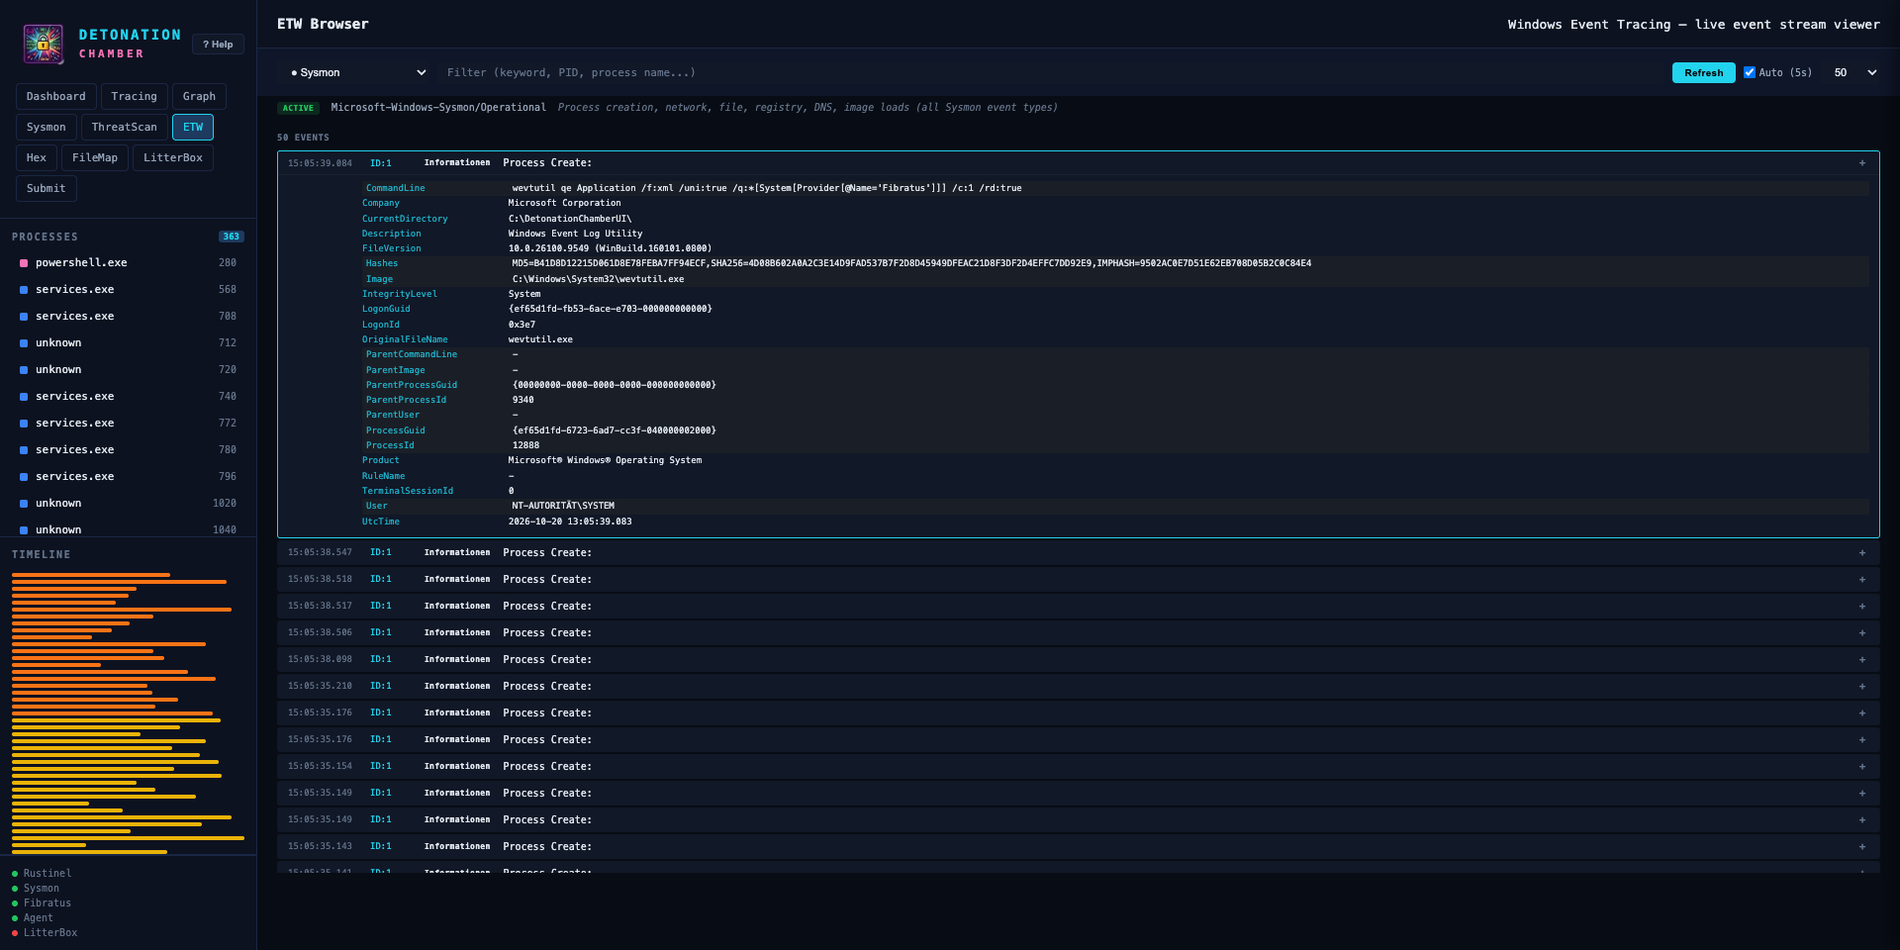
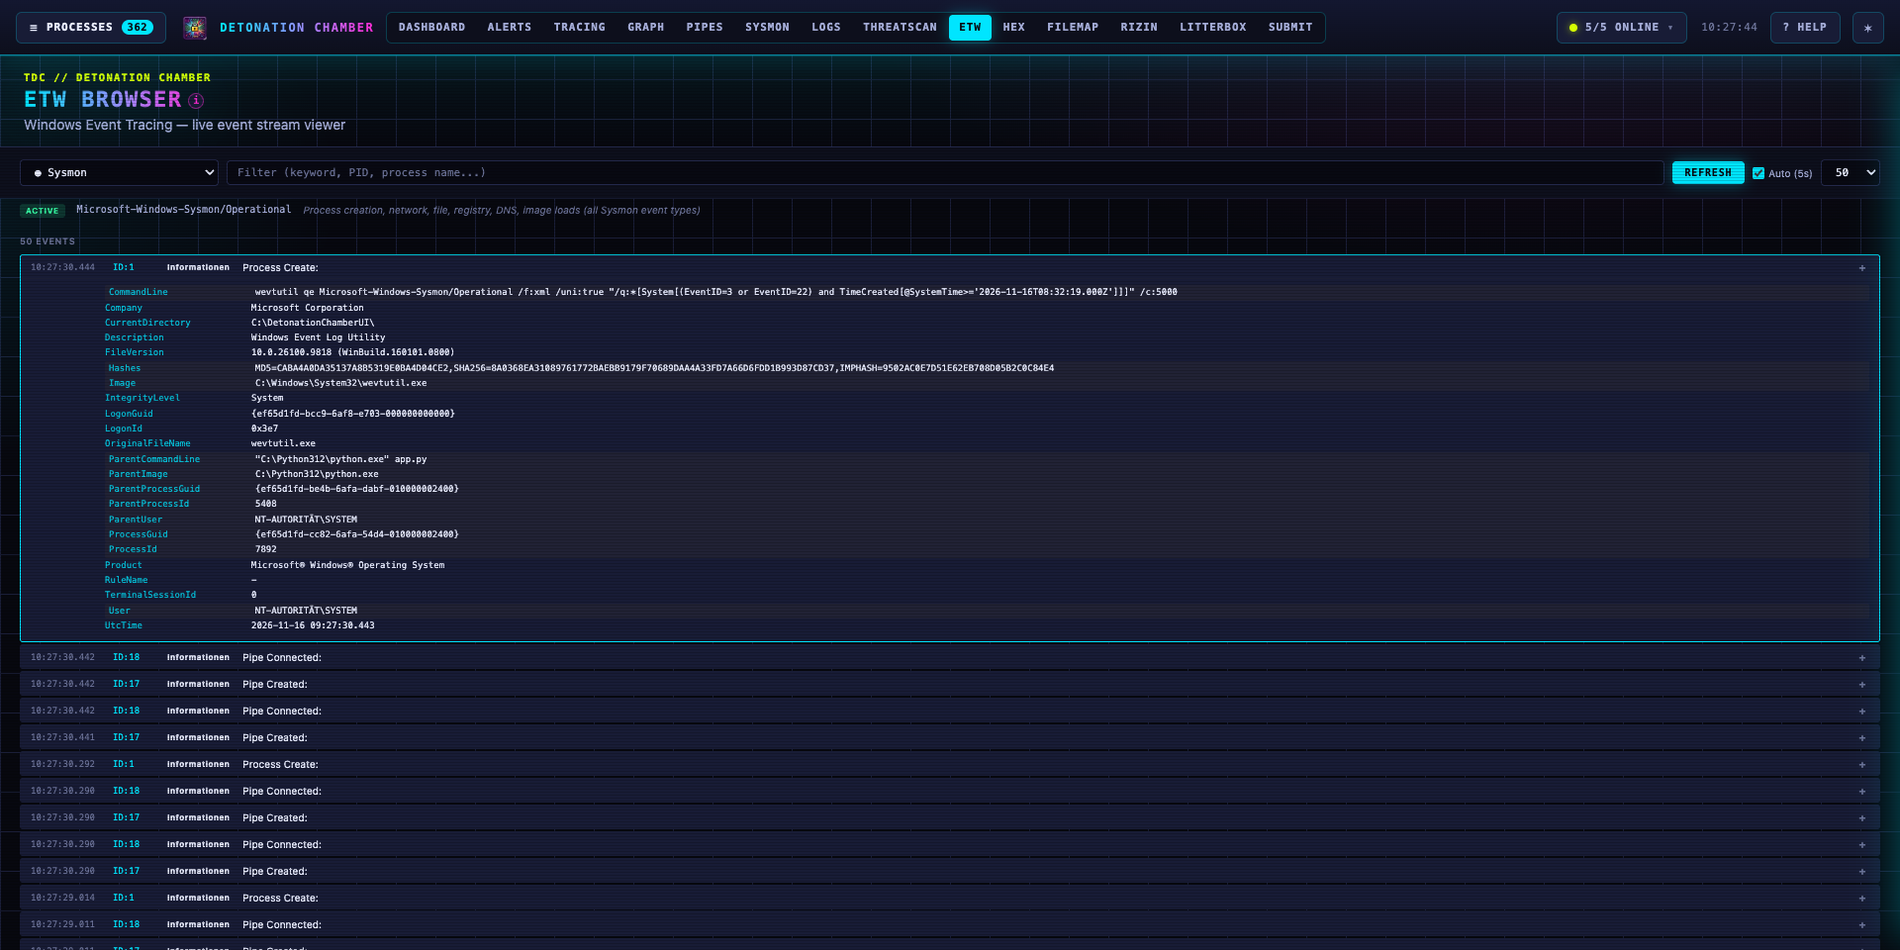
docs: telemetry screenshots and demo gif

Changed region(s): [[0.0, 0.0, 1.0, 1.0], [0.2812, 0.4375, 0.375, 0.5]]

diff --git a/README.md b/README.md
@@ -41,6 +41,11 @@
   <br><sub>The same dashboard in the Telemetry theme (cyan, magenta and acid green on near-black blue)</sub>
 </p>
 
+<p align="center">
+  <img src="static/demo.gif" alt="Demo: a walk through the Web UI in the Telemetry theme" width="90%">
+  <br><sub>A walk through the Web UI in the Telemetry theme: Dashboard with Tool Updates, Alerts (charts and drilldown), Tracing, Graph, Pipes, Sysmon, LOGS, ThreatScan, Hex and File map, Rizin, ETW, and a switch to Cyberpunk and back (see <a href="#demo">Demo</a> for the screenshots)</sub>
+</p>
+
 ---
 
 ## Table of Contents
@@ -149,8 +154,8 @@ that was running at the time.
 The Web UI has two themes: **Cyberpunk** (the default: neon on deep violet)
 and **Telemetry** (cyan, magenta and acid green on near-black blue, with a
 fine grid and scanlines; it replaces the former blue Classic look, and a
-browser that stored "classic" simply gets Telemetry). Most of the screenshots
-below were taken in that former look, with its sidebar. **✶** switches between
+browser that stored "classic" simply gets Telemetry). The screenshots below
+were taken in Telemetry, except the one that says Cyberpunk. **✶** switches between
 the themes at once, without reloading the page; the open tab, an open detail
 view, filters and drilldown steps, sort orders, the graph and running pipe
 interception sessions stay as they are. The choice is stored in the browser
@@ -1059,6 +1064,18 @@ tool on the VM with its installed and available version and a status, and
 installs updates without re-provisioning the VM. The VM needs internet access
 for this; without it the rows say "No internet access from the VM" (`offline`).
 
+<p align="center">
+  <img src="static/tool_updates.png" alt="Dashboard: the Tool Updates panel with CHECK FOR UPDATES and the skull UPDATE ALL button" width="100%">
+</p>
+
+> The panel in the Telemetry theme, scrolled to the top of the window:
+> the time of the last check, **CHECK FOR UPDATES** and the skull button
+> **UPDATE ALL** with the number of tools it would install (2: Sysmon and its
+> config, the only rows with *update available*). Rustinel and Fibratus are
+> pinned (1.1.1 and 3.0.0), so a newer version (1.11.0, 3.1.1) is shown but
+> only their own **UPDATE** button installs it; most git and release tools
+> are *up to date*, and a few have no version to compare (*unknown*).
+
 - **Check for updates** runs in the background. The server also checks once a
   day on its own (first check 5 minutes after start; `TDC_UPDATE_CHECK_HOURS`),
   but it never installs anything by itself.
@@ -1148,6 +1165,18 @@ Splunk's search language. Everything in it is text from the sample or the VM
 (a PowerShell script block above all), so it is always shown as text, never as
 markup.
 
+<p align="center">
+  <img src="static/logs_tab.png" alt="LOGS tab: the search source=dns | top 10 query over 7 days" width="100%">
+</p>
+
+> The search `source=dns | top 10 query` over the last 7 days: the 252 DNS
+> events of the VM, counted by queried name (`github.com` 70, then
+> `dc.services.visualstudio.com` 38, `api.nuget.org` 24, ...) as a table with
+> its share, over the **EVENTS OVER TIME** histogram of the range. The chips
+> under the search box count the six sources (the DNS one is the active
+> source), the range buttons sit left of them, and the field list left of the
+> table shows the six fields of the result.
+
 | Source | Content |
 |--------|---------|
 | `powershell` | Script Blocks (4104), module and pipeline logging (4103) and engine errors (4100) of `Microsoft-Windows-PowerShell/Operational`; the parts of a long script block are joined into one event; the script is the `message` (`script=` searches it too) |
@@ -1211,27 +1240,26 @@ Screenshots from the ARM64 UTM VM with the test samples used during development
 (`shortlived.exe`, `injectsim.exe`, `beaconsim.exe`, `pipesim.exe` — harmless
 programs that mimic implant behaviour).
 
-### Service Dashboard (former Classic look)
+### Service Dashboard (Telemetry theme)
 
 <p align="center">
-  <img src="static/dashboard.png" alt="Dashboard in the former Classic theme, with the sidebar" width="100%">
+  <img src="static/dashboard.png" alt="Dashboard in the Telemetry theme" width="100%">
 </p>
 
 > Stats strip (alerts by severity, tracked processes, services online, loaded
 > Sigma/YARA rules, scanner tools), where each tile opens what it counts;
 > TOTAL ALERTS and PROCESSES TRACKED carry 45-day sparklines. Below it
-> **ALERT ACTIVITY** on ALL: the 9,620 alerts per day from 14 Jul to 10 Nov,
-> stacked by severity, beside the **SEVERITY** and **CATEGORY** donuts of
-> that range (196 critical, 2,700 high, 6,720 medium, 4 low; registry,
-> process, api, file, module). Then one card per service: Rustinel,
-> DetonatorAgent and LitterBox, below them Sysmon, Fibratus and the AV/AMSI
-> scanner (EMBER2024 and capa follow further down). Offline services are
-> struck through and can be launched from their card (here LitterBox). This
-> screenshot predates the top bar: the left sidebar held the tabs (Alerts,
-> the second, lists every alert), ✶ below "? Help", the tracked
-> processes and the alert timeline: the 60 newest alerts coloured by
-> severity, which TABLE lists as a table. They now sit in the drawer behind
-> ☰ PROCESSES, and the colours are those of the Telemetry theme above.
+> **ALERT ACTIVITY** on ALL: the 9,950 alerts per week from 13 Jul to 16 Nov
+> (5 without a time), stacked by severity, beside the **SEVERITY** and
+> **CATEGORY** donuts of that range (238 critical, 2,983 high, 6,720 medium,
+> 9 low; registry, process, api, file, module). Then one card per service:
+> Rustinel, DetonatorAgent and LitterBox, below them Sysmon, Fibratus and the
+> AV/AMSI scanner (EMBER2024 and capa follow further down). An offline service
+> is struck through and can be launched from its card; all of them are online
+> here. The top bar holds ☰ PROCESSES (362 tracked processes; the process list
+> and the alert timeline, the 60 newest alerts coloured by severity, which
+> TABLE lists as a table, sit in the drawer behind it), the tabs, the service
+> summary, Help and ✶, which switches to Cyberpunk.
 
 ---
 
@@ -1243,14 +1271,14 @@ programs that mimic implant behaviour).
 
 > The same dashboard in the **Cyberpunk** theme, which a browser without a
 > stored choice starts in. The top bar holds ☰ PROCESSES
-> (363 tracked processes, opens the process list and the timeline in a
-> drawer), the logo, the tabs with the active one in magenta, the service
-> summary, the time of the last update, Help and ✶, which switches to
-> Telemetry. The summary *4/5 ONLINE* counts the five services of the status row
-> (LitterBox is offline; a click lists them); the SERVICES ONLINE tile shows
-> *4/6* because it also counts the Detonator, which is offline as well. Below
+> (362 tracked processes, opens the process list and the timeline in a
+> drawer), the logo, the tabs (Dashboard to Submit, LOGS among them) with the
+> active one in magenta, the service summary, the time of the last update,
+> Help and ✶, which switches to Telemetry. The summary *5/5 ONLINE* counts the
+> five services of the status row (a click lists them); the SERVICES ONLINE
+> tile shows *6/6* because it also counts the Detonator. Below
 > the head area the stats tiles carry a coloured edge; a click on a tile opens
-> what it counts, a click on *2896 high* the critical and high alerts. The
+> what it counts, a click on *3221 high* the critical and high alerts. The
 > charts follow in the theme's colours: ALERT ACTIVITY on ALL (its switch
 > 24H / 7D / 30D / ALL at the top right), the SEVERITY and CATEGORY donuts,
 > then the service cards.
@@ -1263,18 +1291,19 @@ programs that mimic implant behaviour).
   <img src="static/alerts_tab.png" alt="Alerts tab filtered by severity and engine" width="100%">
 </p>
 
-> The **Alerts** tab (former Classic look) filtered to the critical and high alerts of
-> the fibratus engine: *6 of 9641*. The charts above the filter bar count
-> the same six: SEVERITY 1 critical and 5 high, OVER TIME one alert on each
-> of six days between 28 Oct and 10 Nov (under the bars the hint how to use
-> them), ENGINE fibratus alone, and FLOW from fibratus through six rules to
-> six processes (a click on a part would narrow the list further). The
-> severity chips and the engine are set in the filter bar itself, which is
-> no drilldown step, so no drilldown bar shows. Below the bar the six rows,
-> newest first, each with its time, severity, engine, rule, process and
-> PID, and the rule's description. A click on a row opens the alert detail;
-> process names that are in the process list (here `services.exe`) are
-> links to the process. Column heads sort the table.
+> The **Alerts** tab (Telemetry) filtered to the critical and high alerts of
+> the fibratus engine: *9 of 9950*. The charts above the filter bar count
+> the same nine: SEVERITY 1 critical and 8 high, OVER TIME bars between
+> 28 Oct and 16 Nov (under the bars the hint how to use them), ENGINE
+> fibratus alone, and FLOW from fibratus through seven rules (six named, the
+> rest as *other rules*) to the processes they ran in (a click on a part would
+> narrow the list further). The severity chips and the engine are set in the
+> filter bar itself, which is no drilldown step, so no drilldown bar shows.
+> Below the bar the rows, newest first, each with its time, severity, engine,
+> rule, process and PID, and the rule's description. A click on a row opens
+> the alert detail; process names that are in the process list (here
+> `XtaCache.exe` and `powershell.exe`) are links to the process. Column heads
+> sort the table.
 
 ---
 
@@ -1284,13 +1313,13 @@ programs that mimic implant behaviour).
   <img src="static/dashboard_charts.png" alt="Dashboard charts with a range drawn across ALERT ACTIVITY" width="100%">
 </p>
 
-> The dashboard (Cyberpunk) with a range drawn across **ALERT ACTIVITY**:
-> the bars of ALL show the 9,620 alerts per day from 14 Jul to 10 Nov,
-> stacked by severity; the range 23 Jul – 21 Aug is marked on them and
+> The dashboard (Telemetry) with a range drawn across **ALERT ACTIVITY**:
+> the bars of ALL show the 9,950 alerts per week from 13 Jul to 16 Nov,
+> stacked by severity; the range 20 Jul – 16 Aug is marked on them and
 > stands as a chip before 24H / 7D / 30D / ALL, whose × goes back to ALL.
-> **SEVERITY** and **CATEGORY** count that range only: 5,833 alerts (7
-> critical, 1,761 high, 4,065 medium), in three categories (registry,
-> process, api). The TOTAL ALERTS and PROCESSES TRACKED tiles carry their
+> **SEVERITY** and **CATEGORY** count that range only: 6,215 alerts (7
+> critical, 1,767 high, 4,441 medium), in three categories (registry 4,441,
+> process 1,648, api 126). The TOTAL ALERTS and PROCESSES TRACKED tiles carry their
 > 45-day sparklines. A click on a bar or a segment opens the Alerts tab
 > filtered to it.
 
@@ -1298,34 +1327,34 @@ programs that mimic implant behaviour).
   <img src="static/alerts_charts.png" alt="Alerts tab with its chart strip and the engine, rule and process Sankey" width="100%">
 </p>
 
-> The **Alerts** tab with all 9,641 alerts: **SEVERITY** and **ENGINE** as
-> pies beside their legends (Sigma 9,415, Yara 216, fibratus 10), **OVER
-> TIME** per week stacked by severity (the week of 27 Jul has 3,372 alerts)
+> The **Alerts** tab with all 9,950 alerts: **SEVERITY** and **ENGINE** as
+> pies beside their legends (Sigma 9,694, Yara 237, fibratus 14, litterbox 5),
+> **OVER TIME** per week stacked by severity (the week of 27 Jul has 3,372 alerts)
 > with the hint how to draw a range below it, and **FLOW: ENGINE → RULE →
 > PROCESS** drawn by square roots. It shows the noise at a glance: the
-> Run-key rule alone has 6,150 of the alerts, 5,757 of them on `MsMpEng.exe`
-> (6,190 alerts in all). The six most frequent rules and processes stand on
-> their own, the rest as *other rules* (79) and *other processes* (504). A
+> Run-key rule alone has 6,150 of the alerts, and `MsMpEng.exe` alone has
+> 6,190. The six most frequent rules and processes stand on
+> their own, the rest as *other rules* (95) and *other processes* (534). A
 > click on a slice, a bar, a node or a band, or a range drawn across the
-> bars, narrows the tab by a step; no filter is set here (*9641 of 9641* in
+> bars, narrows the tab by a step; no filter is set here (*9950 of 9950* in
 > the filter bar), so no drilldown bar shows.
 
 <p align="center">
   <img src="static/alerts_drilldown.png" alt="Alerts tab narrowed in three drilldown steps, with BACK and the path above the charts" width="100%">
 </p>
 
-> The **Alerts** tab (Cyberpunk) after three steps: a click on the week
+> The **Alerts** tab (Telemetry) after three steps: a click on the week
 > 27 Jul – 02 Aug in OVER TIME, a click on its day 27 Jul, then a range
 > drawn across the hours 10:00 and 11:00. The drilldown bar above the charts
 > shows **‹ BACK**, the path
 > `ALL ALERTS › 27 Jul – 02 Aug › 27 Jul › 27 Jul 10:00–12:00` (a click on a
-> step goes back to it) and *1,345 of 9,641 alerts*. OVER TIME divides the
+> step goes back to it) and *1,345 of 9,950 alerts*. OVER TIME divides the
 > two hours into 24 bars of 5 minutes; the busiest, 10:30–10:35, has 373
 > alerts. SEVERITY counts 6 critical, 784 high and 555 medium, ENGINE Sigma
 > 1,339 and Yara 6, and FLOW leads Suspicious Encoded PowerShell Command
 > Line (766) to `powershell.exe` (767 in all) and Registry Run Key
 > Persistence (506) mostly to `MsMpEng.exe` (539 in all). The range stands
-> as a chip under the filter bar (*1345 of 9641*), and the table lists those
+> as a chip under the filter bar (*1345 of 9950*), and the table lists those
 > alerts, newest first.
 
 ---
@@ -1356,7 +1385,7 @@ programs that mimic implant behaviour).
 > each with Map/Hex shortcuts.
 >
 > **Right:** `beaconsim.exe` is **SUSPICIOUS (3.8)**: Sysmon network events show
-> 7 connections to the same endpoint every 2.0 s (robust CoV 0.00), and that
+> 8 connections to the same endpoint every 2.0 s (robust CoV 0.00), and that
 > rhythm corroborates the in-memory signature hits from Aether (3 of 3 samples)
 > and the exit dump.
 
@@ -1474,12 +1503,13 @@ programs that mimic implant behaviour).
   <img src="static/file_map.png" alt="File map" width="100%">
 </p>
 
-> **PE header analysis** of `injectsim.exe`: IOC flags (code-injection APIs,
-> a `.tls` section matching a packer name, two TLS callbacks), file/optional
-> headers with an invalid checksum, security features, and the section table
-> with entropy bars.
+> **PE header analysis** of `injectsim.exe`, scrolled to the lower part of the
+> panel: the last three IOC flags (code-injection APIs, a `.tls` section
+> matching a packer name, two TLS callbacks), file/optional headers with an
+> invalid checksum, security features, and the start of the section table
+> with its entropy bars.
 >
-> **Packing analysis** of `capa.exe` (a PyInstaller bundle): Detect-It-Easy
+> **Packing analysis** of `capa.exe` (a PyInstaller bundle, 35 MB): Detect-It-Easy
 > style cards (linker, 36 MB data overlay at entropy 8.00), entropy map and
 > file layout — almost the whole file is overlay.
 >
@@ -1498,20 +1528,23 @@ programs that mimic implant behaviour).
 ### Rizin (Reverse Engineering)
 
 <p align="center">
-  <img src="static/rizin.png" alt="Rizin tab: pipesim.exe at sym.main in DISASSEMBLY and GRAPH, the console after afl~main" width="100%">
+  <img src="static/rizin.png" alt="Rizin tab: pipesim.exe at the instruction that loads the pipe name string, in DISASSEMBLY and GRAPH, the console after iz~msagent, axt and a seek" width="100%">
 </p>
 
-> The **Rizin** tab (Cyberpunk) with `pipesim.exe`, the harmless named-pipe
-> test program, built with mingw and uploaded through OPEN ▾. The toolbar
-> shows its path in the upload folder on the VM, *PE64 · x86-64 · 151.7 KB*,
-> the shortened SHA256 and *analysed (aaa) 1.7 s*; SEEK says `sym.main`, where
-> the tab landed after the analysis. FUNCTIONS (84) marks `sym.main`,
-> DISASSEMBLY shows its first instructions with 0x1400014b7 marked (calls in
-> pink, conditional jumps in green, symbols in amber), and GRAPH beside it the
-> function's entry block among its 30 blocks, marked in magenta, with the
-> taken `jle` in green and the fall-through to 0x140001507 in red. Below, the
-> CONSOLE after `afl~main`: the six functions whose name contains "main", and
-> the prompt `[0x1400014b7]>` at the place the views show.
+> The **Rizin** tab (Telemetry) with `pipesim.exe`, the harmless named-pipe
+> test program, opened from its path in `C:\Users\Public\Downloads` on the VM
+> (the OPEN ▾ menu also takes a submitted sample, a dump or an upload). The
+> toolbar shows the path, *PE64 · x86-64 · 186.5 KB*, the shortened SHA256 and
+> *analysed (aaa) 3.3 s*; FUNCTIONS lists the 127 functions Rizin found, with
+> `fcn.140001000` marked. DISASSEMBLY shows that function around 0x1400010a7
+> (marked, SEEK says the same): the `lea r8` that loads the pipe-name string
+> `\\.\pipe\msagent_%04x%02x`, among calls (pink), the imports of
+> `KERNEL32.dll` and the C runtime (amber). GRAPH beside it draws the
+> function's 31 blocks, here the block that starts at 0x140001067 (marked).
+> Below, the CONSOLE shows how the view got there: `iz~msagent` finds the
+> string at 0x140026056, `s 0x140026056` seeks to it, `axt` lists its only
+> reference (`fcn.140001000` at 0x1400010a7) and `s 0x1400010a7` follows it;
+> the prompt `[0x1400010a7]>` stands at the place the views show.
 
 ---
 
@@ -1521,10 +1554,19 @@ programs that mimic implant behaviour).
   <img src="static/live_memory.png" alt="Live process memory" width="100%">
 </p>
 
-> An Aether scan of a running `explorer.exe` (3 samples, 3 s apart): 30
-> signature hits in four categories, all of them known for this host — the
-> baseline suppresses 7 findings and the result is **CLEAN (0)**. Below: the
-> scan history with every scanner's verdict and score.
+> The **LIVE PROCESS MEMORY** panel of the ThreatScan tab with the **SCAN
+> HISTORY** under it. The panel takes a PID, or a name to look up, and offers
+> Aether scan (set to 3 samples, 3 s apart), Dump memory, the host
+> baseline (explorer.exe, svchost.exe, msedge.exe, with CAPTURE and CLEAR; the
+> baseline holds 575 keys, updated 2026-10-20) and the whole-system sweep
+> buttons; no scan is running. Below, the score history plots every scan of
+> the history as a point (clean 29, suspicious 12, detected 3, no verdict 17
+> of the 61 entries; the dashed lines mark SUSPICIOUS at 2 and MALICIOUS at
+> 6), and the list gives each entry's time, scanner, target and verdict with
+> its score. A click on an entry or a point opens its details. An Aether
+> result as the scan shows it (hits by category, the baseline, MITRE
+> techniques) is drawn in the detonation results (LIVE MEMORY above) and
+> after a scan started here.
 
 ---
 
@@ -1534,22 +1576,30 @@ programs that mimic implant behaviour).
   <img src="static/pipes_tab.png" alt="Pipes tab: events and an interception session" width="100%">
 </p>
 
-> **Pipes tab:** the Sysmon pipe events filtered to `\msagent_5e62b5` - the
-> harmless test sample `pipesim.exe` creates it and its child connects; both
-> rows are tagged **Cobalt Strike**. Below: an interception session armed for
-> the prefix `msagent_` before the detonation. It took the new pipe, relayed
-> the whole 60 s run (58 messages, `beacon n` client → server and `task n`
-> server → client, hex and ASCII) and the sample exited normally.
+> **Pipes tab:** PIPE EVENTS lists the Sysmon pipe events of the last hour on
+> the VM (12 events on 2 pipes when the screenshot was taken: `powershell.exe`
+> connecting to `\wkssvc` and `\DAV RPC SERVICE`; the pipe events of the
+> `pipesim.exe` detonation are no longer in the Sysmon log, so a filter on
+> its pipe finds none). Below, the interception session list and
+> the session `\msagent_5e62b5` (pattern `\msagent_`, armed with a prefix
+> match before the detonation, mode observe, 10:51:35 to 10:53:05): it took
+> the new pipe and relayed the whole run (1 connection, 58 messages, 446 B
+> recorded; `beacon n` client → server and `task n` server → client, hex and
+> ASCII, every one PASSED), and the sample exited normally. The notice
+> above the messages says the upstream connect landed on the proxy's own
+> instance once and was retried.
 
 <p align="center">
   <img src="static/detonation_pipes.png" alt="Detonation results: NAMED PIPES section" width="100%">
 </p>
 
-> **NAMED PIPES** in the detonation results of `pipesim.exe`: one pipe, created
-> by PID 4268 and connected by its child 14484, flags *C2 default name* and
-> *random name*. Both findings enter the memory evidence (source
-> `sysmon-pipes`, verdict **MALICIOUS** together with the memory findings), and
-> **Intercept** opens the Pipes tab with an attach form for this pipe.
+> **NAMED PIPES** in the detonation results of `pipesim.exe` (the run of
+> 11 Nov): one pipe, `\msagent_4872a0`, created by the sample (PID 7824) and
+> connected by PID 7184, flags *C2 default name*, *cross-process* and
+> *random name*, family Cobalt Strike. The 3 findings enter the memory
+> evidence (source `sysmon-pipes`, verdict **MALICIOUS** together with the
+> memory findings), and **Intercept** opens the Pipes tab with an attach form
+> for this pipe.
 
 ---
 
@@ -1573,17 +1623,20 @@ programs that mimic implant behaviour).
   <img src="static/etw_browser.png" alt="ETW browser" width="100%">
 </p>
 
-> **Sysmon** (former Classic look): the 500 newest events. **EVENTS OVER TIME** stacks
-> them by event type in 15-second bars, **PROCESS → EVENT TYPE** shows who
-> raised them (`python.exe`, the web UI itself, 236, nearly all of them pipe
-> events; the images after the sixth are *other images*). Under the filter
-> bar the type counters (PipeConnected, PipeCreated, ProcessCreate,
-> FileCreate, DNSQuery) and the table with command lines and the Windows
-> Event IDs each Sysmon event corresponds to; the detail view (right) lists
-> the correlated Security events.
+> **Sysmon:** the 500 newest events. **EVENTS OVER TIME** stacks
+> them by event type in bars of a few seconds, **PROCESS → EVENT TYPE** shows
+> who raised them (`python.exe`, the web UI itself, 395, nearly all of them
+> pipe events; then `wevtutil.exe` 45, `tasklist.exe` 33, `sc.exe` 20,
+> `powershell.exe` 6 and `rustinel.exe` 1). Under the filter
+> bar the type counters (PipeConnected 201, PipeCreated 198, ProcessCreate
+> 100, FileCreate 1) and the table with command lines and the Windows
+> Event IDs each Sysmon event corresponds to; the detail view (right, for a
+> `wevtutil.exe` ProcessCreate) lists the correlated Security events 4688
+> and 4689.
 >
-> **ETW browser:** the Sysmon channel with one event expanded; all fields of the
-> event are shown, suspicious values are highlighted.
+> **ETW browser:** the Sysmon channel with one event expanded (a Process
+> Create of `wevtutil.exe`); all fields of the event are shown, suspicious
+> values are highlighted.
 
 ---
 
